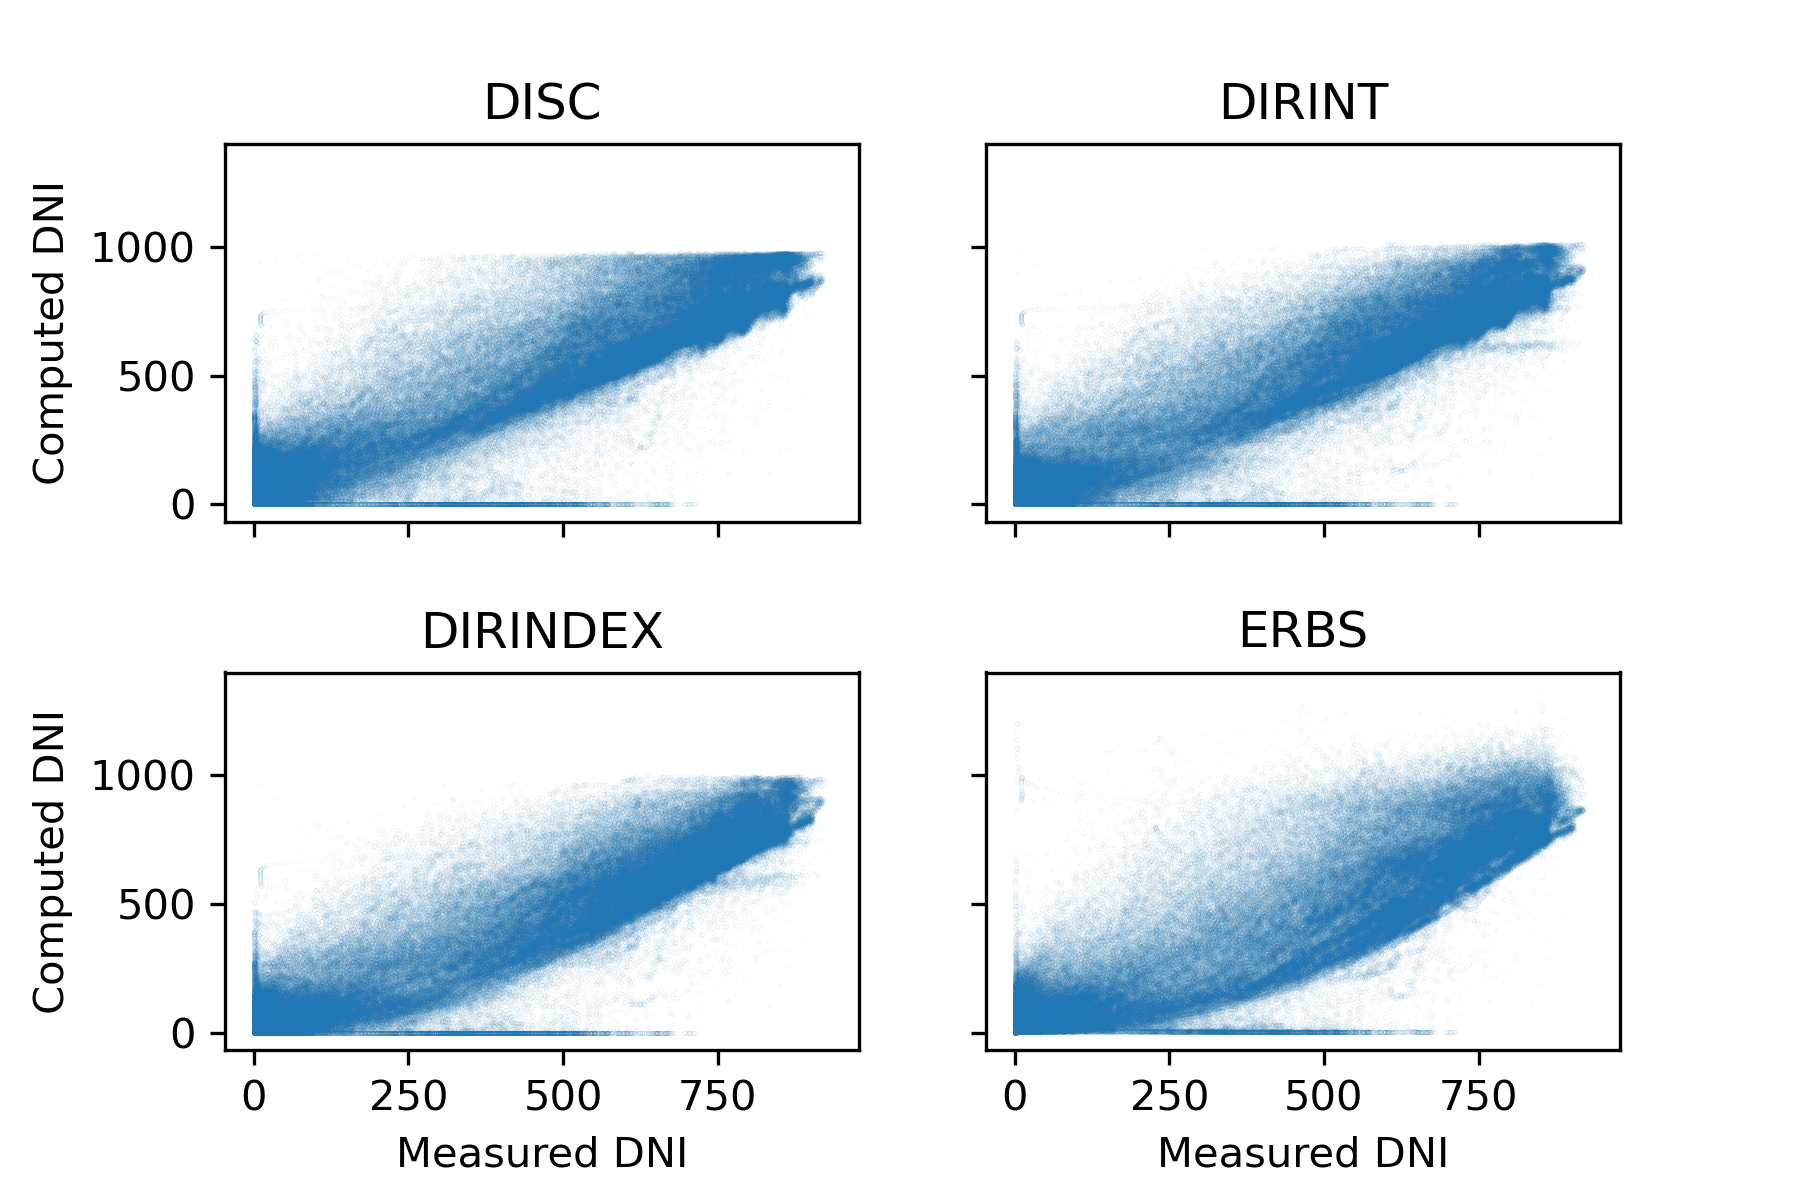
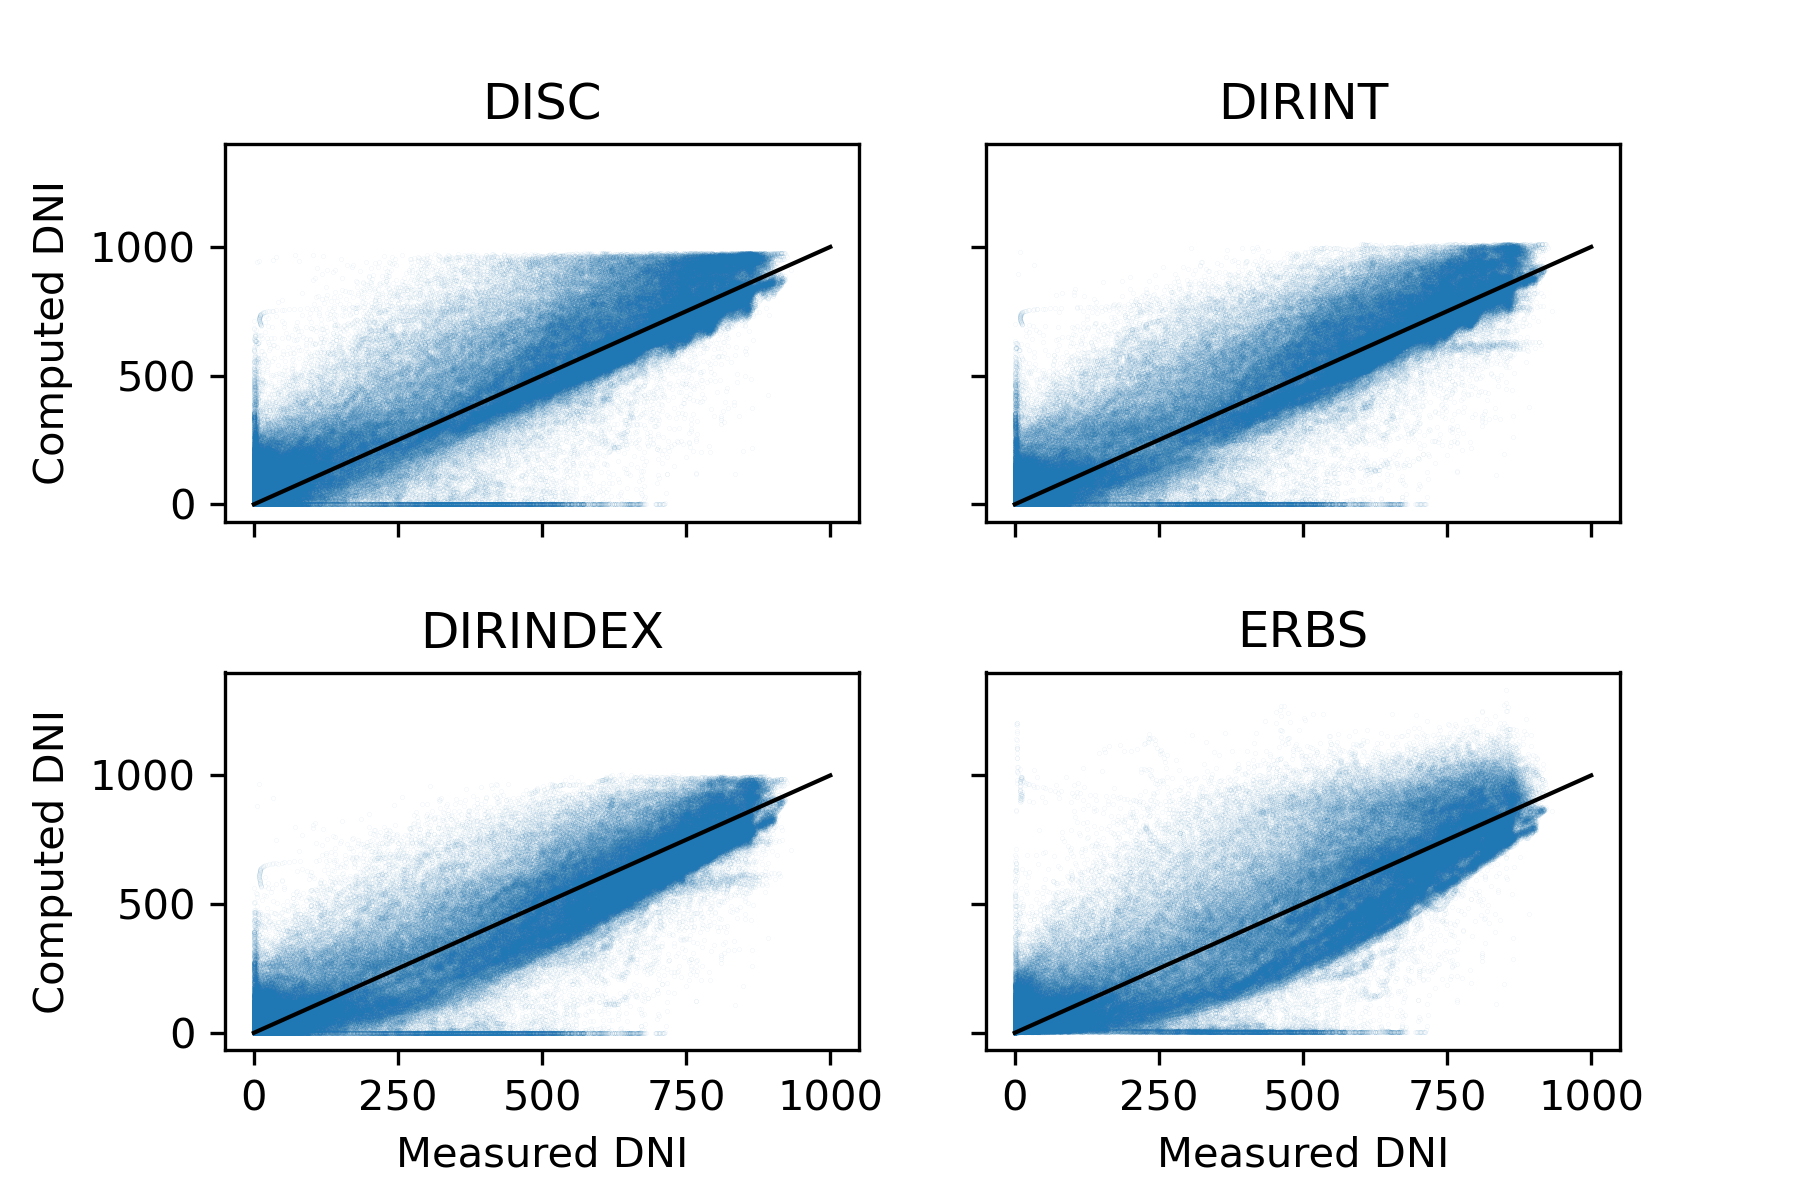
Add a trendline to the scatterplot

diff --git a/src/init.py b/src/init.py
@@ -59,6 +59,10 @@ def create_scatterplot(irradiance):
         subplot = axes[index // 2][index % 2]
         subplot.scatter(irradiance.DNI, irradiance['dni_' + model], s=0.0001)
         subplot.title.set_text(model.upper())
+        
+        # Add a trend line
+        subplot.plot([0, 1000], [0, 1000], color='black', linewidth=1)
+
     plt.savefig("../figures/part1/scatterplot.png", dpi=300)
 
 
